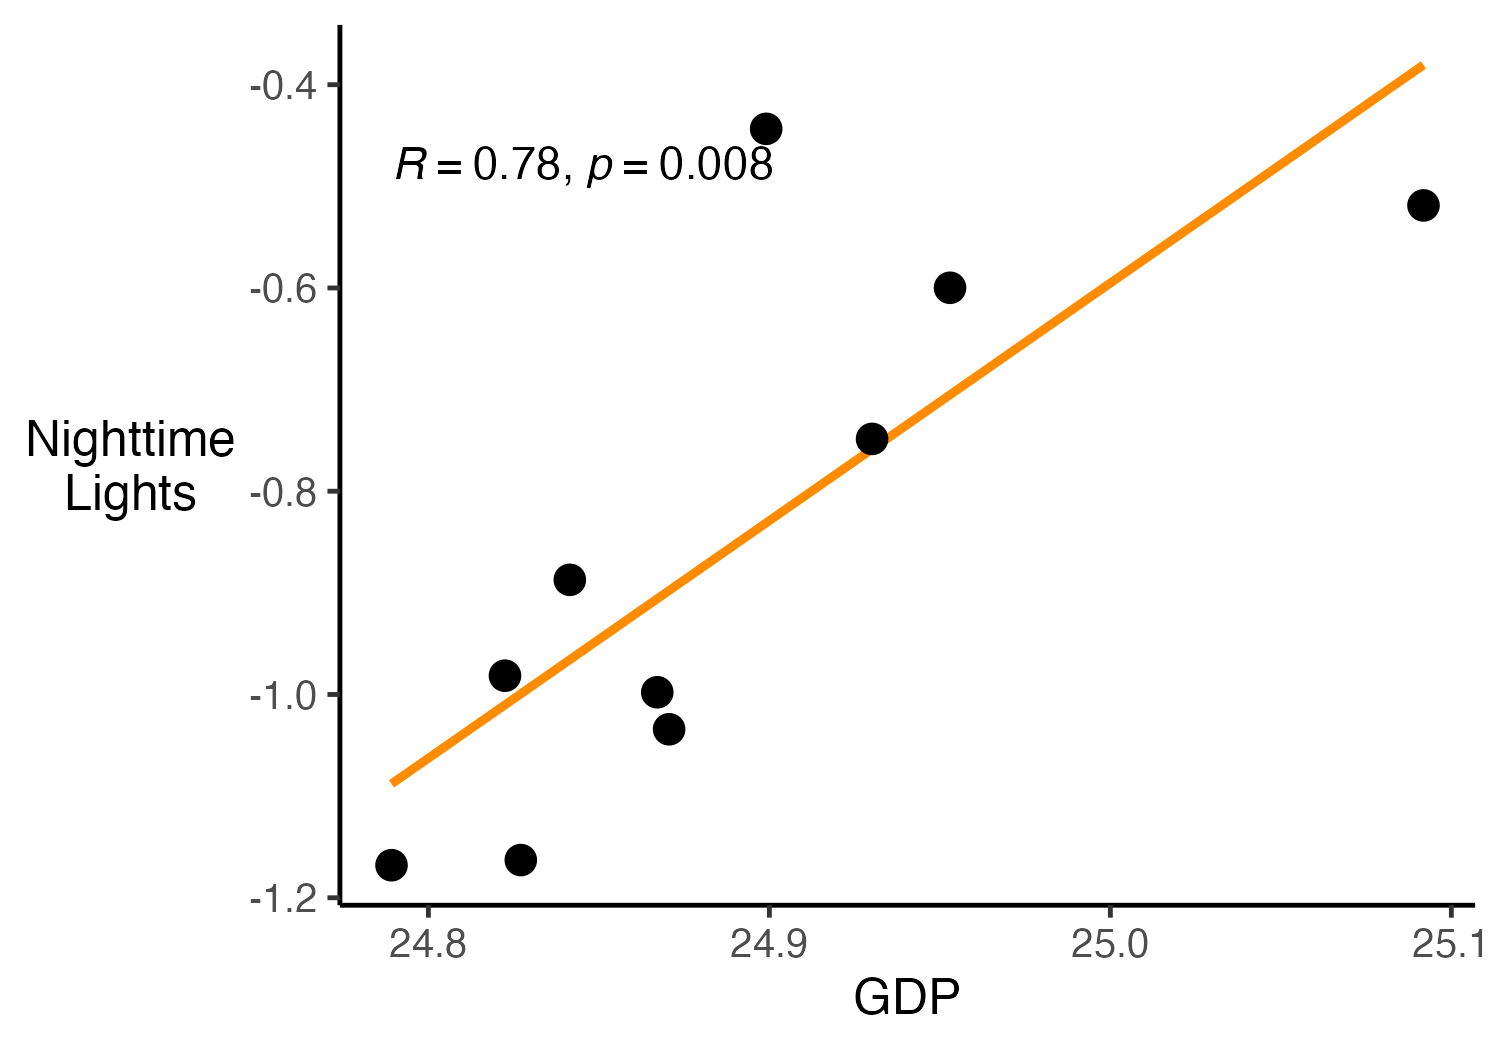
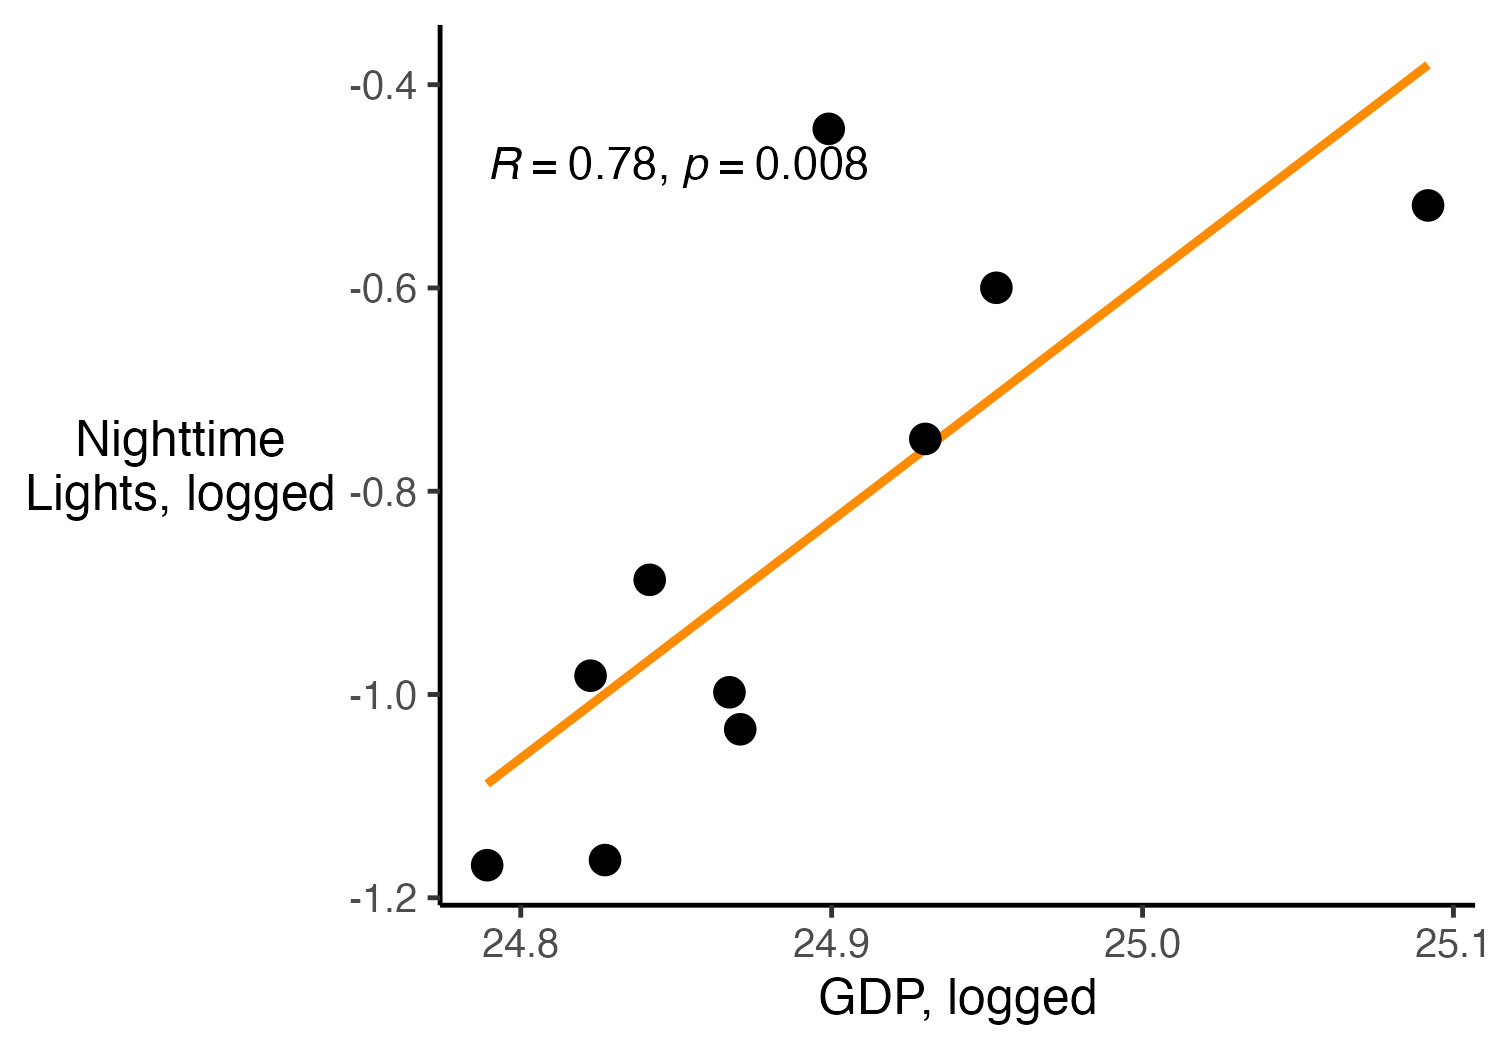
html

diff --git a/reports/figures/reg_gdp_ntl.html b/reports/figures/reg_gdp_ntl.html
@@ -1,16 +1,16 @@
 
 <table style="text-align:center"><tr><td colspan="3" style="border-bottom: 1px solid black"></td></tr><tr><td style="text-align:left"></td><td colspan="2"><em>Dependent variable:</em></td></tr>
 <tr><td></td><td colspan="2" style="border-bottom: 1px solid black"></td></tr>
-<tr><td style="text-align:left"></td><td>GDP</td><td>log(GDP)</td></tr>
+<tr><td style="text-align:left"></td><td>GDP (Billions)</td><td>log(GDP)</td></tr>
 <tr><td style="text-align:left"></td><td>(1)</td><td>(2)</td></tr>
-<tr><td colspan="3" style="border-bottom: 1px solid black"></td></tr><tr><td style="text-align:left">NTL</td><td>37,298,539,421.000<sup>**</sup></td><td></td></tr>
-<tr><td style="text-align:left"></td><td>(11,661,043,003.000)</td><td></td></tr>
+<tr><td colspan="3" style="border-bottom: 1px solid black"></td></tr><tr><td style="text-align:left">NTL</td><td>37.299<sup>**</sup></td><td></td></tr>
+<tr><td style="text-align:left"></td><td>(11.661)</td><td></td></tr>
 <tr><td style="text-align:left"></td><td></td><td></td></tr>
 <tr><td style="text-align:left">log(NTL)</td><td></td><td>0.257<sup>***</sup></td></tr>
 <tr><td style="text-align:left"></td><td></td><td>(0.074)</td></tr>
 <tr><td style="text-align:left"></td><td></td><td></td></tr>
-<tr><td style="text-align:left">Constant</td><td>48,294,017,216.000<sup>***</sup></td><td>25.109<sup>***</sup></td></tr>
-<tr><td style="text-align:left"></td><td>(5,290,203,710.000)</td><td>(0.066)</td></tr>
+<tr><td style="text-align:left">Constant</td><td>48.294<sup>***</sup></td><td>25.109<sup>***</sup></td></tr>
+<tr><td style="text-align:left"></td><td>(5.290)</td><td>(0.066)</td></tr>
 <tr><td style="text-align:left"></td><td></td><td></td></tr>
 <tr><td colspan="3" style="border-bottom: 1px solid black"></td></tr><tr><td style="text-align:left">Observations</td><td>10</td><td>10</td></tr>
 <tr><td style="text-align:left">R<sup>2</sup></td><td>0.561</td><td>0.601</td></tr>

diff --git a/notebooks/nighttime-lights/README.md b/notebooks/nighttime-lights/README.md
@@ -232,6 +232,25 @@ xfun::file_string('../../reports/figures/reg_gdp_ntl.html')
 ```
 ````
 
+<table style="text-align:center"><tr><td colspan="3" style="border-bottom: 1px solid black"></td></tr><tr><td style="text-align:left"></td><td colspan="2"><em>Dependent variable:</em></td></tr>
+<tr><td></td><td colspan="2" style="border-bottom: 1px solid black"></td></tr>
+<tr><td style="text-align:left"></td><td>GDP (Billions)</td><td>log(GDP)</td></tr>
+<tr><td style="text-align:left"></td><td>(1)</td><td>(2)</td></tr>
+<tr><td colspan="3" style="border-bottom: 1px solid black"></td></tr><tr><td style="text-align:left">NTL</td><td>37.299<sup>**</sup></td><td></td></tr>
+<tr><td style="text-align:left"></td><td>(11.661)</td><td></td></tr>
+<tr><td style="text-align:left"></td><td></td><td></td></tr>
+<tr><td style="text-align:left">log(NTL)</td><td></td><td>0.257<sup>***</sup></td></tr>
+<tr><td style="text-align:left"></td><td></td><td>(0.074)</td></tr>
+<tr><td style="text-align:left"></td><td></td><td></td></tr>
+<tr><td style="text-align:left">Constant</td><td>48.294<sup>***</sup></td><td>25.109<sup>***</sup></td></tr>
+<tr><td style="text-align:left"></td><td>(5.290)</td><td>(0.066)</td></tr>
+<tr><td style="text-align:left"></td><td></td><td></td></tr>
+<tr><td colspan="3" style="border-bottom: 1px solid black"></td></tr><tr><td style="text-align:left">Observations</td><td>10</td><td>10</td></tr>
+<tr><td style="text-align:left">R<sup>2</sup></td><td>0.561</td><td>0.601</td></tr>
+<tr><td style="text-align:left">Adjusted R<sup>2</sup></td><td>0.506</td><td>0.551</td></tr>
+<tr><td colspan="3" style="border-bottom: 1px solid black"></td></tr><tr><td style="text-align:left"><em>Note:</em></td><td colspan="2" style="text-align:right"><sup>*</sup>p<0.1; <sup>**</sup>p<0.05; <sup>***</sup>p<0.01</td></tr>
+</table>
+
 ### GDP vs Nighttime Lights: Quarterly
 
 This section explores the association between GDP and nighttime lights using annual data. We use available quarterly data from 2015 to 2019.
@@ -242,6 +261,14 @@ scale: 50%
 align: center
 ---
 Association between Nighttime Lights and GDP
+```
+
+```{figure} ../../reports/figures/gdp_ntl_quarterly_scatter_log.png
+---
+scale: 50%
+align: center
+---
+Association between Nighttime Lights and GDP, logging both NTL and GDP
 ```
 
 ```{figure} ../../reports/figures/gdp_ntl_quarterly_trends.png
